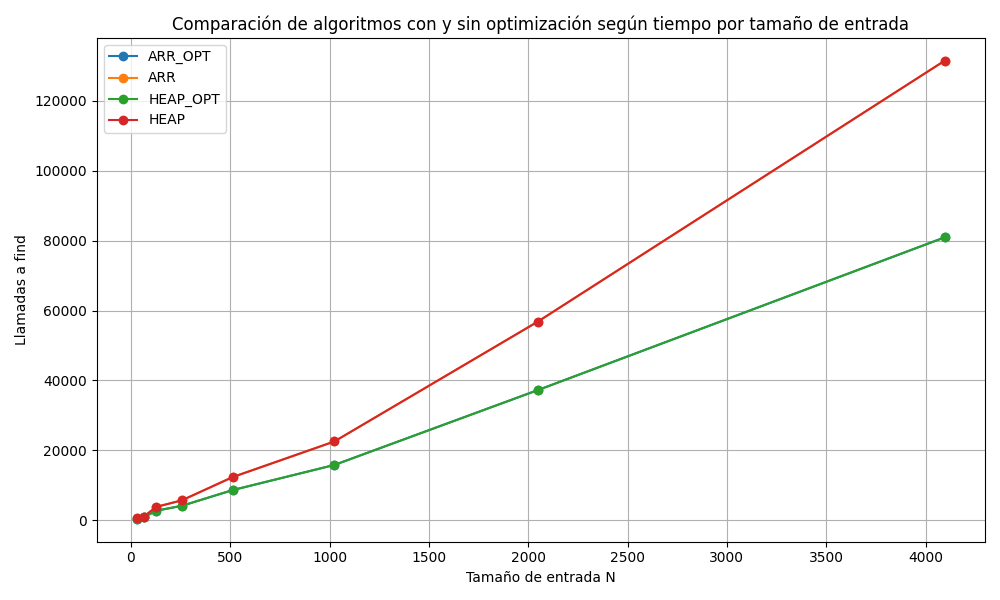
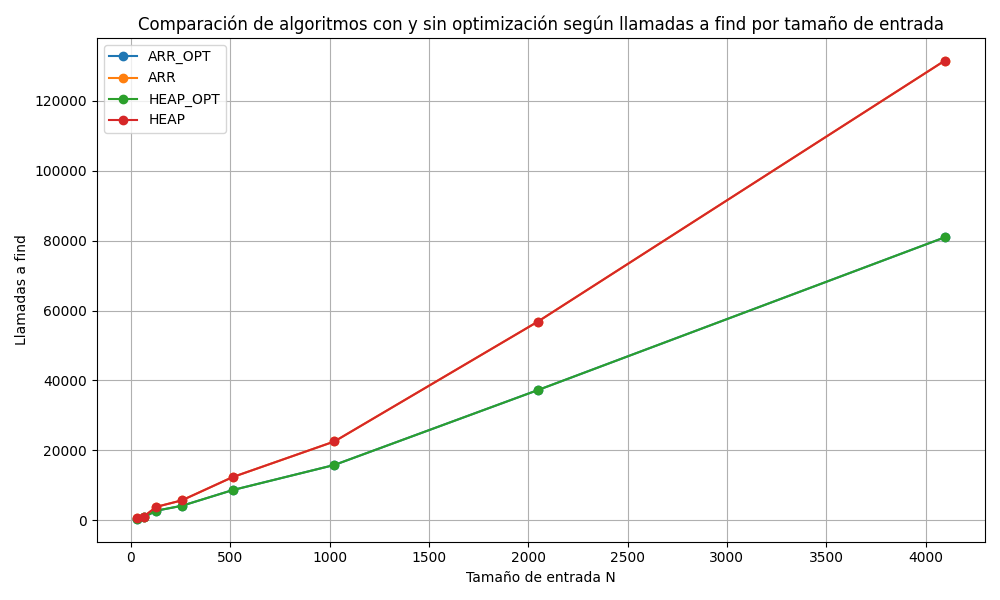
feat: More graphs

Changed region(s): [[0.124, 0.03, 0.961, 0.06]]

diff --git a/find_calls.py b/find_calls.py
@@ -67,8 +67,9 @@ for i in range(len(diff_heap)):
 
 # Graficar resultados
 cmp = ""
-if sys.argv[1] == "heap": cmp = "HEAP"
-elif sys.argv[1] == "arr": cmp = "ARR"
+if len(sys.argv) == 2:
+    if sys.argv[1] == "heap": cmp = "HEAP"
+    elif sys.argv[1] == "arr": cmp = "ARR"
     
 plt.figure(figsize=(10, 6))
 for algo, times in results.items():
@@ -78,7 +79,7 @@ for algo, times in results.items():
 
 plt.xlabel('Tamaño de entrada N')
 plt.ylabel('Llamadas a find')
-plt.title('Comparación de algoritmos con y sin optimización según tiempo por tamaño de entrada')
+plt.title('Comparación de algoritmos con y sin optimización según llamadas a find por tamaño de entrada')
 plt.legend()
 plt.grid(True)
 plt.tight_layout()
